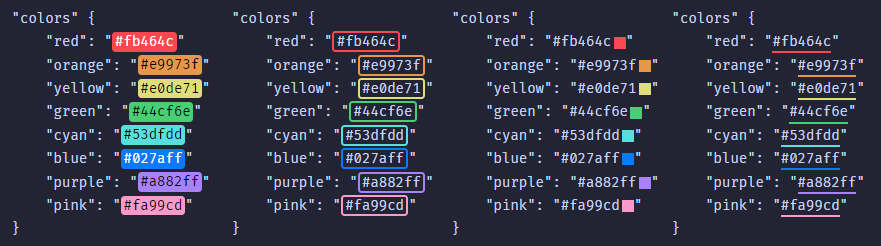
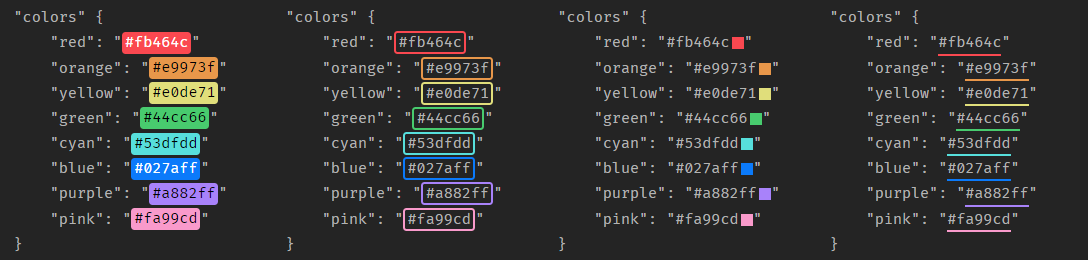
Remove unused styles, update preview images to use default theme

diff --git a/main.ts b/main.ts
@@ -29,7 +29,6 @@ export default class ColorHighlighterPlugin extends Plugin {
     private addStyles() {
         const styles = `
             .color-highlighter {
-                box-decoration-break: clone;
                 -webkit-box-decoration-break: clone;
             }
             .color-highlighter.background {
@@ -43,7 +42,6 @@ export default class ColorHighlighterPlugin extends Plugin {
                 padding: 0 2px;
             }
             .color-highlighter.underline {
-                text-decoration: none !important;
                 border-bottom-width: 2px;
                 border-bottom-style: solid;
                 padding-bottom: 1px;
@@ -212,7 +210,7 @@ export default class ColorHighlighterPlugin extends Plugin {
                             break;
                         case 'underline':
                             attributes.class += " color-highlighter-underline";
-                            attributes.style = `border-bottom: 2px solid ${effectiveColor}; text-decoration: none !important; text-decoration-skip-ink: none; border-radius: 0;`;
+                            attributes.style = `border-bottom: 2px solid ${effectiveColor}; text-decoration-skip-ink: none; border-radius: 0;`;
                             break;
                         case 'square':
                             // No additional style for the text itself
